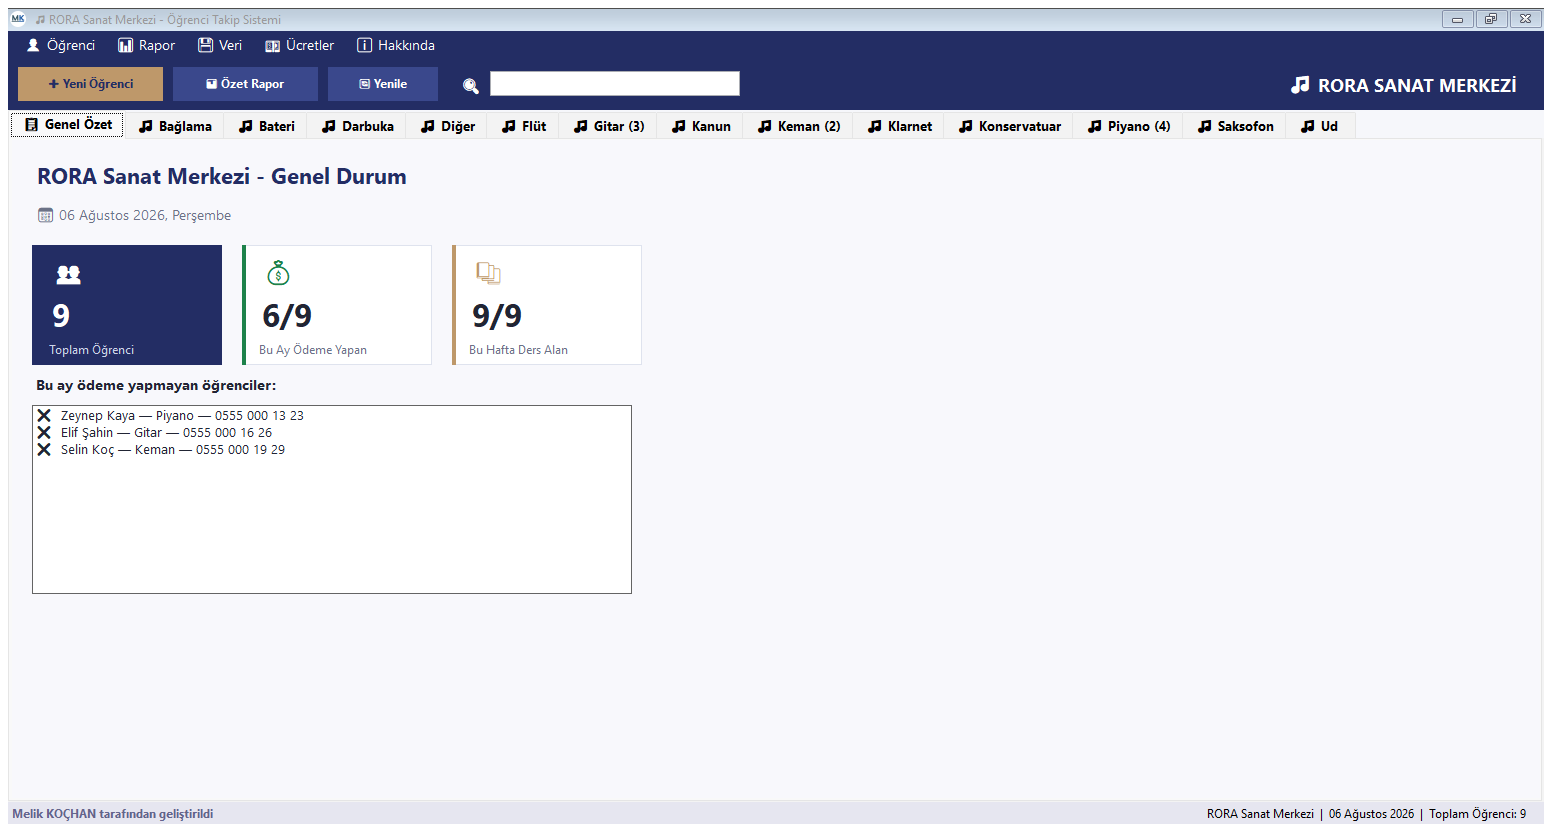
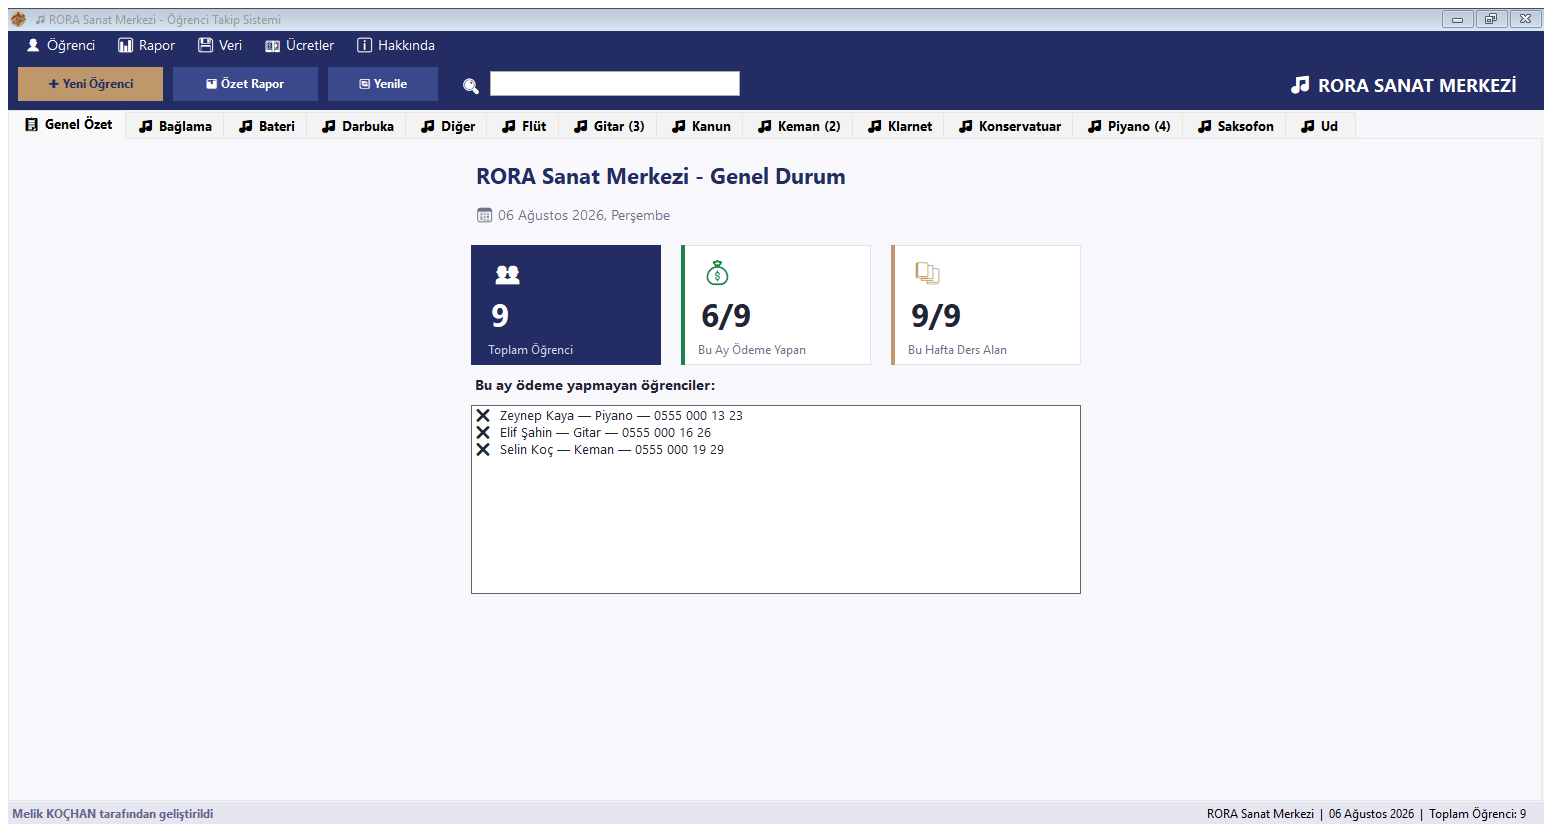
Genel Özet içeriğini yatayda ortala
Genel Özet sekmesinde başlık, tarih, üç özet kutusu ve ödeme yapmayanlar
listesi sola yaslıydı; pencere genişledikçe sağda geniş bir boşluk kalıyor,
içerik ekranın sol üçte birine sıkışmış görünüyordu.

Önce yalnızca üç kutuyu ortalamak denendi ve iyi durmadı: kutular ortaya
kayarken başlık, tarih, liste etiketi ve liste solda kaldı; ekran iki parçaya
bölündü ve başlığın altında kocaman bir boşluk oluştu. İçeriğin tamamı tek
sütun olarak ortalanınca sayfa toparlandı.

Konumlar sabit verilmiyor. Ortalama pencere genişliğine bağlı; pencere
yeniden boyutlandırıldığında içerik ortada kalıyor. Hesap denetimlerin kendi
genişliğinden yapılıyor, tasarım pikselinden değil: ölçekli ekranda kutuların
gerçek genişliği farklı oluyor.

Pencere sütunu sığdıramayacak kadar darsa sola yaslanıyor. Ortalamaya
çalışmak o durumda ilk kutuyu ekranın dışına iterdi.

Liste kutusu 600, üç kutunun kapladığı blok 610 pikseldi. Birkaç piksellik
fark ortalanmış sütunu eğri gösterdiği için liste kutu bloğuyla aynı sağ
kenarda bitecek şekilde eşitlendi.

Ekran görüntüleri de yenilendi. Üçü 12:06'da üretilmişti, uygulama ikonu
14:09'da değişti (#39); yani README'deki görsellerin başlık çubuğunda hâlâ
eski "MK" ikonu duruyordu. Genel Özet görüntüsü zaten yerleşim yüzünden
yenilenmek zorundaydı, üçü birden alındı.

Closes #40

diff --git a/MainForm.cs b/MainForm.cs
@@ -317,6 +317,7 @@ namespace RORAMuzikMerkezi
                 ("📚", "Bu Hafta Ders Alan", $"{buHaftaDers}/{toplamOgrenci}", Renkler.Altin, false),
             };
 
+            var kutuListesi = new List<Panel>();
             int xPos = 20;
             foreach (var (ikon, baslik, deger, renk, dolu) in kutular)
             {
@@ -375,8 +376,44 @@ namespace RORAMuzikMerkezi
                 });
 
                 panel.Controls.Add(kutu);
+                kutuListesi.Add(kutu);
                 xPos += 210;
             }
+
+            // Kutular panele göre yatayda ortalanıyor. Konumlar sabit
+            // verilmiyor çünkü pencere genişliği değişken; ayrıca ölçekli
+            // ekranda kutuların gerçek genişliği tasarım pikselinden farklı
+            // oluyor, o yüzden hesap denetimlerin kendi genişliğinden yapılıyor.
+            //
+            // Pencere kutuları sığdıramayacak kadar darsa sola yaslanıyor:
+            // ortalamaya çalışmak ilk kutuyu ekranın dışına iterdi.
+            Action<Control[]> ortalayiciyiBagla = digerleri =>
+            {
+                EventHandler ortala = (s, e) =>
+                {
+                    if (kutuListesi.Count == 0) return;
+
+                    int aralik = Olcek.Piksel(this, 20);
+                    int kenar = Olcek.Piksel(this, 20);
+                    int kutuGenisligi = kutuListesi.Sum(k => k.Width) + aralik * (kutuListesi.Count - 1);
+
+                    // İçerik sütununun genişliği en geniş öğeye göre; kutular
+                    // ile alttaki liste birbirine hizalı kalsın.
+                    int sutun = Math.Max(kutuGenisligi, digerleri.Max(c => c.Width));
+                    int bas = Math.Max(kenar, (panel.ClientSize.Width - sutun) / 2);
+
+                    int x = bas;
+                    foreach (var k in kutuListesi) { k.Left = x; x += k.Width + aralik; }
+                    foreach (var c in digerleri) c.Left = bas;
+
+                    // Liste, kutu sırasıyla aynı sağ kenarda bitsin; birkaç
+                    // piksellik fark sütunu eğri gösteriyor.
+                    var liste = digerleri.OfType<ListBox>().FirstOrDefault();
+                    if (liste != null) liste.Width = kutuGenisligi;
+                };
+                panel.SizeChanged += ortala;
+                panel.HandleCreated += ortala;
+            };
 
             // Kısa öğrenci listesi
             var lblKisaListe = new Label
@@ -409,6 +446,7 @@ namespace RORAMuzikMerkezi
                 lstOdemeyenler.Items.Add("✅ Tüm öğrenciler bu ay ödeme yapmış!");
 
             panel.Controls.AddRange(new Control[] { lblBaslik, lblTarih, lblKisaListe, lstOdemeyenler });
+            ortalayiciyiBagla(new Control[] { lblBaslik, lblTarih, lblKisaListe, lstOdemeyenler });
             tab.Controls.Add(panel);
         }
 

diff --git a/docs/SprintPlan.md b/docs/SprintPlan.md
@@ -64,6 +64,7 @@ Documentation, repository hygiene, CI, and interface work.
 - README screenshots retaken against the refreshed interface, and the missing README lines for #30 and #31 added (#36)
 - CI build pipeline running on a self-hosted Windows runner (#14)
 - Application icon replaced with the RORA medallion; it used to show "MK" (#39)
+- Summary tab content centred horizontally instead of hugging the left edge, and the screenshots refreshed with the new icon (#40)
 
 ### Open
 

diff --git a/docs/Requirements.md b/docs/Requirements.md
@@ -50,6 +50,7 @@
 - Low hardware requirements
 - Windows compatibility
 - Readable on scaled displays: high-DPI aware, and control sizes derived from the text they hold rather than fixed pixels
+- Layout follows the window: the summary tab keeps its content centred as the window is resized, and falls back to left alignment when the window is too narrow to centre it
 - No server, database or internet connection
 - No external libraries; only standard .NET Framework assemblies
 
